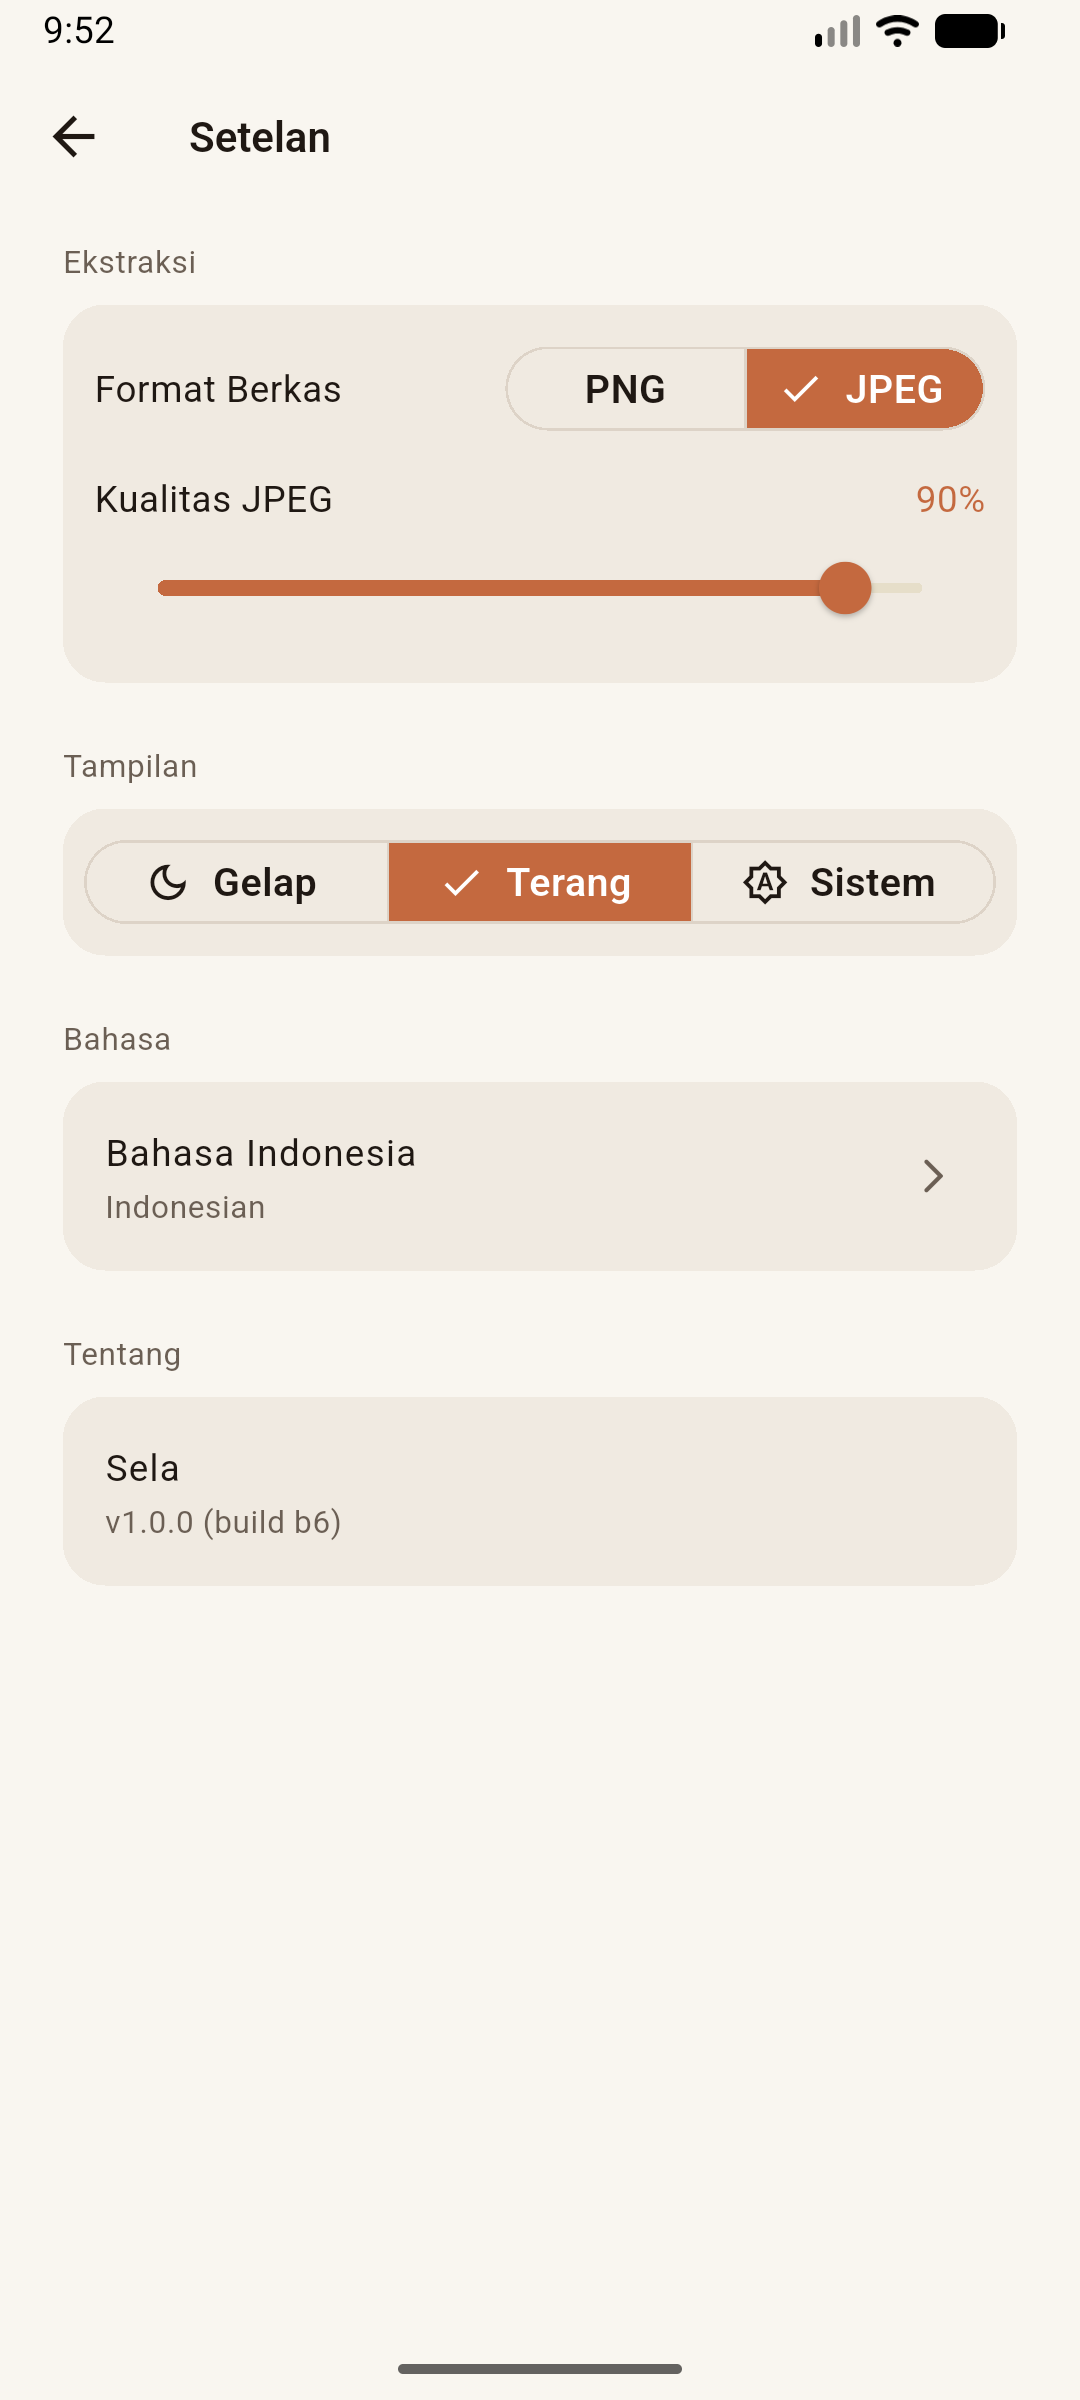
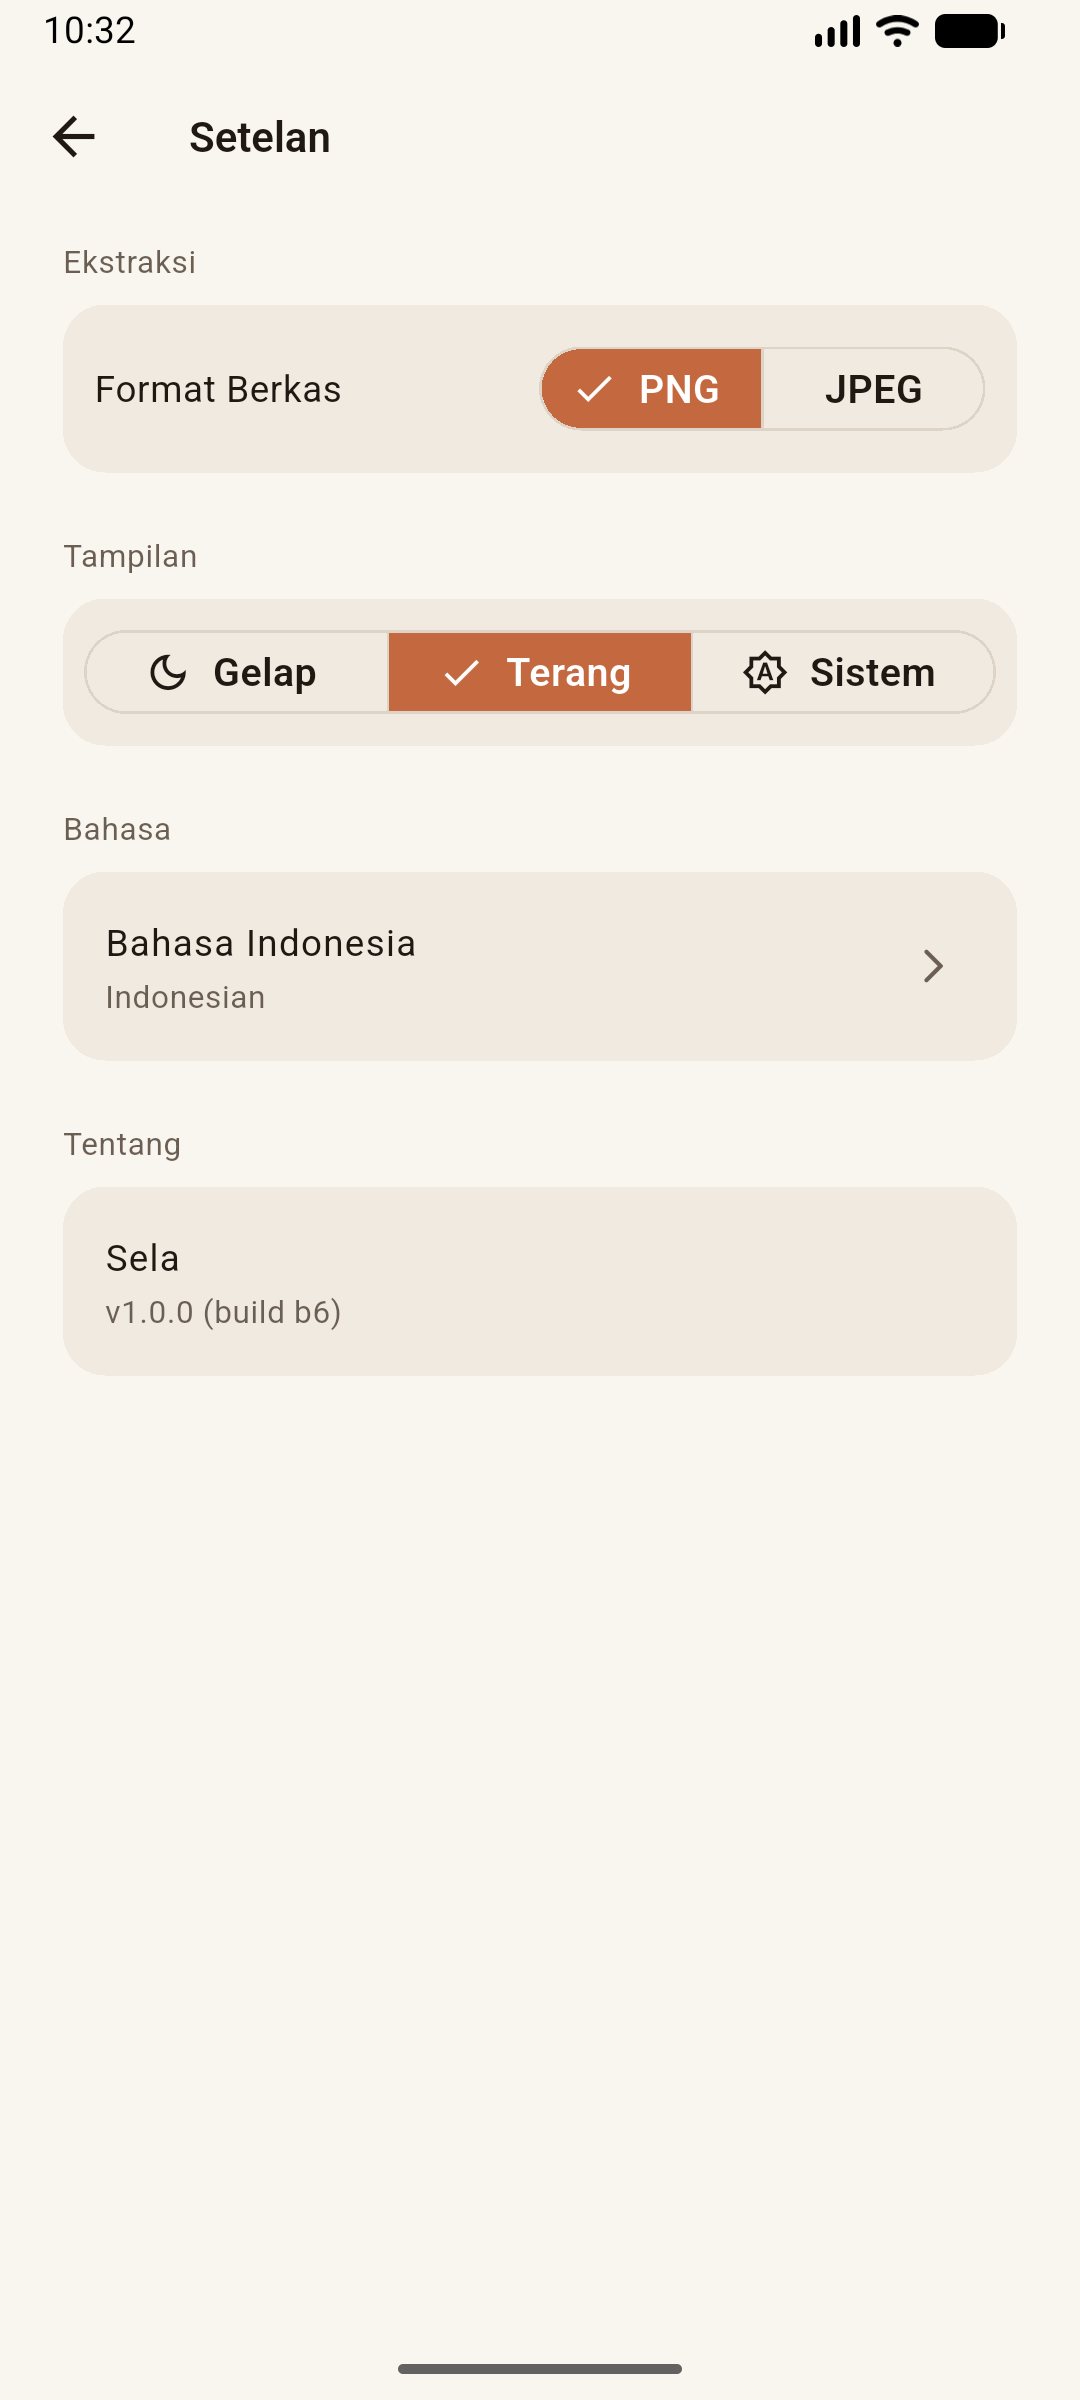
feat(release): close final Tahap 7 hardening conditions - authentic mutation check, 1080p fidelity proof, active SelaText.of, and updated light screenshot

diff --git a/test/domain/source_fidelity_test.dart b/test/domain/source_fidelity_test.dart
@@ -4,10 +4,49 @@ import 'dart:typed_data';
 import 'package:flutter_test/flutter_test.dart';
 import 'package:sela/domain/models.dart';
 
+(int, int) parseNativeTrackDimensions(Uint8List bytes) {
+  final byteData = ByteData.sublistView(bytes);
+  int pos = 0;
+  int foundWidth = 0;
+  int foundHeight = 0;
+
+  while (pos < bytes.length - 8) {
+    final sz = byteData.getUint32(pos);
+    final tag = String.fromCharCodes(bytes.sublist(pos + 4, pos + 8));
+
+    if (tag == 'moov' ||
+        tag == 'trak' ||
+        tag == 'mdia' ||
+        tag == 'minf' ||
+        tag == 'stbl') {
+      pos += 8;
+      continue;
+    }
+
+    if (tag == 'tkhd') {
+      final version = byteData.getUint8(pos + 8);
+      final wIdx = version == 0 ? pos + 8 + 76 : pos + 8 + 88;
+      final hIdx = version == 0 ? pos + 8 + 80 : pos + 8 + 92;
+
+      final w = byteData.getUint16(wIdx);
+      final h = byteData.getUint16(hIdx);
+
+      if (w > 0 && h > 0 && foundWidth == 0) {
+        foundWidth = w;
+        foundHeight = h;
+      }
+    }
+
+    if (sz <= 1) break;
+    pos += sz;
+  }
+  return (foundWidth, foundHeight);
+}
+
 void main() {
   group('Source Resolution Fidelity Verification (Tahap 7)', () {
     test('VideoInfo resolution getter produces exact width and height', () {
-      const info = VideoInfo(
+      const infoLow = VideoInfo(
         path: 'assets/test.mp4',
         durationS: 10.0,
         fps: 30.0,
@@ -16,59 +55,40 @@ void main() {
         height: 176,
         codec: 'h264',
       );
+      expect(infoLow.resolution, '320×176');
 
-      expect(info.width, 320);
-      expect(info.height, 176);
-      expect(info.resolution, '320×176');
+      const infoHigh = VideoInfo(
+        path: 'assets/test_1080p.mp4',
+        durationS: 2.0,
+        fps: 30.0,
+        frameCount: 60,
+        width: 1920,
+        height: 1080,
+        codec: 'h264',
+      );
+      expect(infoHigh.resolution, '1920×1080');
+    });
+
+    test('assets/test.mp4 binary MP4 container defines native 320x176', () {
+      final file = File('assets/test.mp4');
+      expect(file.existsSync(), isTrue);
+      final (width, height) = parseNativeTrackDimensions(
+        file.readAsBytesSync(),
+      );
+      expect(width, 320);
+      expect(height, 176);
     });
 
     test(
-      'assets/test.mp4 binary MP4 container defines native 320x176 track',
+      'assets/test_1080p.mp4 binary MP4 container defines native 1920x1080',
       () {
-        final file = File('assets/test.mp4');
+        final file = File('assets/test_1080p.mp4');
         expect(file.existsSync(), isTrue);
-
-        final bytes = file.readAsBytesSync();
-        final byteData = ByteData.sublistView(bytes);
-
-        int pos = 0;
-        int foundWidth = 0;
-        int foundHeight = 0;
-
-        while (pos < bytes.length - 8) {
-          final sz = byteData.getUint32(pos);
-          final tag = String.fromCharCodes(bytes.sublist(pos + 4, pos + 8));
-
-          if (tag == 'moov' ||
-              tag == 'trak' ||
-              tag == 'mdia' ||
-              tag == 'minf' ||
-              tag == 'stbl') {
-            pos += 8;
-            continue;
-          }
-
-          if (tag == 'tkhd') {
-            final version = byteData.getUint8(pos + 8);
-            final wIdx = version == 0 ? pos + 8 + 76 : pos + 8 + 88;
-            final hIdx = version == 0 ? pos + 8 + 80 : pos + 8 + 92;
-
-            final w = byteData.getUint16(wIdx);
-            final h = byteData.getUint16(hIdx);
-
-            if (w > 0 && h > 0 && foundWidth == 0) {
-              foundWidth = w;
-              foundHeight = h;
-            }
-          }
-
-          if (sz <= 1) break;
-          pos += sz;
-        }
-
-        // Assert that 320x176 is the authentic 100% full source resolution of test.mp4
-        expect(foundWidth, 320);
-        expect(foundHeight, 176);
+        final (width, height) = parseNativeTrackDimensions(
+          file.readAsBytesSync(),
+        );
+        expect(width, 1920);
+        expect(height, 1080);
       },
     );
   });

diff --git a/test/features/settings/theme_and_format_integration_test.dart b/test/features/settings/theme_and_format_integration_test.dart
@@ -85,31 +85,68 @@ void main() {
       expect(scaffold.backgroundColor, SelaColors.bg);
     });
 
-    testWidgets(
-      'Mutation check: asserts that a mutated/hardcoded dark Scaffold fails light theme assertion',
-      (tester) async {
-        // Mutated widget simulating broken/hardcoded SelaColors.bg
-        const mutatedScaffold = Scaffold(backgroundColor: SelaColors.bg);
-        await tester.pumpWidget(
-          const MaterialApp(themeMode: ThemeMode.light, home: mutatedScaffold),
-        );
-        await tester.pumpAndSettle();
-
-        final scaffold = tester.widget<Scaffold>(find.byType(Scaffold));
-        // Verifies mutation is caught: hardcoded dark is NOT SelaColors.bgLight
-        expect(scaffold.backgroundColor, isNot(equals(SelaColors.bgLight)));
-        expect(scaffold.backgroundColor, equals(SelaColors.bg));
-      },
-    );
-
     test(
       'SelaText styles do not hardcode textPrimary/textSecondary colors',
       () {
         expect(SelaText.displaySerif.color, isNull);
+        expect(SelaText.progressNumber.color, isNull);
         expect(SelaText.titleCard.color, isNull);
         expect(SelaText.body.color, isNull);
         expect(SelaText.button.color, isNull);
+        expect(SelaText.sectionLabel.color, isNull);
         expect(SelaText.caption.color, isNull);
+      },
+    );
+
+    testWidgets(
+      'SelaText.of dynamically injects theme-appropriate text colors',
+      (tester) async {
+        late BuildContext lightCtx, darkCtx;
+        await tester.pumpWidget(
+          MaterialApp(
+            theme: SelaTheme.lightTheme,
+            themeMode: ThemeMode.light,
+            home: Builder(
+              builder: (ctx) {
+                lightCtx = ctx;
+                return const SizedBox();
+              },
+            ),
+          ),
+        );
+        await tester.pumpAndSettle();
+
+        expect(
+          SelaText.of(lightCtx, SelaText.titleCard).color,
+          SelaColors.textPrimaryLight,
+        );
+        expect(
+          SelaText.of(lightCtx, SelaText.caption, isSecondary: true).color,
+          SelaColors.textSecondaryLight,
+        );
+
+        await tester.pumpWidget(
+          MaterialApp(
+            theme: SelaTheme.darkTheme,
+            themeMode: ThemeMode.dark,
+            home: Builder(
+              builder: (ctx) {
+                darkCtx = ctx;
+                return const SizedBox();
+              },
+            ),
+          ),
+        );
+        await tester.pumpAndSettle();
+
+        expect(
+          SelaText.of(darkCtx, SelaText.titleCard).color,
+          SelaColors.textPrimary,
+        );
+        expect(
+          SelaText.of(darkCtx, SelaText.caption, isSecondary: true).color,
+          SelaColors.textSecondary,
+        );
       },
     );
 

diff --git a/lib/features/settings/settings_screen.dart b/lib/features/settings/settings_screen.dart
@@ -34,7 +34,7 @@ class SettingsScreen extends ConsumerWidget {
         elevation: 0,
         title: Text(
           l10n.titleSettings,
-          style: SelaText.titleCard.copyWith(color: colors.textPrimary),
+          style: SelaText.of(context, SelaText.titleCard),
         ),
       ),
       body: ListView(
@@ -43,28 +43,32 @@ class SettingsScreen extends ConsumerWidget {
           vertical: SelaSpace.md,
         ),
         children: [
-          _buildSectionHeader(l10n.sectionExtraction, colors),
+          _buildSectionHeader(context, l10n.sectionExtraction, colors),
           FormatSelectorCard(settings: settings, notifier: notifier),
           const SizedBox(height: SelaSpace.xl),
-          _buildSectionHeader(l10n.sectionAppearance, colors),
+          _buildSectionHeader(context, l10n.sectionAppearance, colors),
           _buildThemeSelector(settings, notifier, l10n, colors),
           const SizedBox(height: SelaSpace.xl),
-          _buildSectionHeader(l10n.sectionLanguage, colors),
+          _buildSectionHeader(context, l10n.sectionLanguage, colors),
           _buildLanguageTile(context, currentLang, colors),
           const SizedBox(height: SelaSpace.xl),
-          _buildSectionHeader(l10n.sectionAbout, colors),
+          _buildSectionHeader(context, l10n.sectionAbout, colors),
           _buildAboutTile(l10n, colors),
         ],
       ),
     );
   }
 
-  Widget _buildSectionHeader(String title, SelaColorsData colors) {
+  Widget _buildSectionHeader(
+    BuildContext context,
+    String title,
+    SelaColorsData colors,
+  ) {
     return Padding(
       padding: const EdgeInsets.only(bottom: SelaSpace.sm),
       child: Text(
         title,
-        style: SelaText.caption.copyWith(color: colors.textSecondary),
+        style: SelaText.of(context, SelaText.caption, isSecondary: true),
       ),
     );
   }

diff --git a/lib/features/capture/capture_screen.dart b/lib/features/capture/capture_screen.dart
@@ -43,13 +43,17 @@ class _CaptureScreenState extends ConsumerState<CaptureScreen> {
   }
 
   Future<void> _initSampleVideo() async {
-    try {
-      final byteData = await rootBundle.load('assets/test.mp4');
-      final tempFile = File('${Directory.systemTemp.path}/test.mp4');
-      await tempFile.writeAsBytes(byteData.buffer.asUint8List());
-      await ref.read(captureProvider.notifier).openVideo(tempFile.path);
-      if (mounted) unawaited(_checkResume(tempFile.path));
-    } catch (_) {}
+    for (final asset in ['assets/test_1080p.mp4', 'assets/test.mp4']) {
+      try {
+        final byteData = await rootBundle.load(asset);
+        final name = asset.split('/').last;
+        final tempFile = File('${Directory.systemTemp.path}/$name');
+        await tempFile.writeAsBytes(byteData.buffer.asUint8List());
+        await ref.read(captureProvider.notifier).openVideo(tempFile.path);
+        if (mounted) unawaited(_checkResume(tempFile.path));
+        break;
+      } catch (_) {}
+    }
   }
 
   Future<void> _checkResume(String path) async {
@@ -98,7 +102,7 @@ class _CaptureScreenState extends ConsumerState<CaptureScreen> {
           backgroundColor: colors.bgElevated,
           title: Text(
             l10n.titleCapture,
-            style: SelaText.titleCard.copyWith(color: colors.textPrimary),
+            style: SelaText.of(context, SelaText.titleCard),
           ),
         ),
         body: const Center(child: CircularProgressIndicator()),
@@ -113,7 +117,7 @@ class _CaptureScreenState extends ConsumerState<CaptureScreen> {
         backgroundColor: colors.bgElevated,
         title: Text(
           videoInfo.path.split('/').last,
-          style: SelaText.titleCard.copyWith(color: colors.textPrimary),
+          style: SelaText.of(context, SelaText.titleCard),
         ),
         actions: [
           IconButton(
